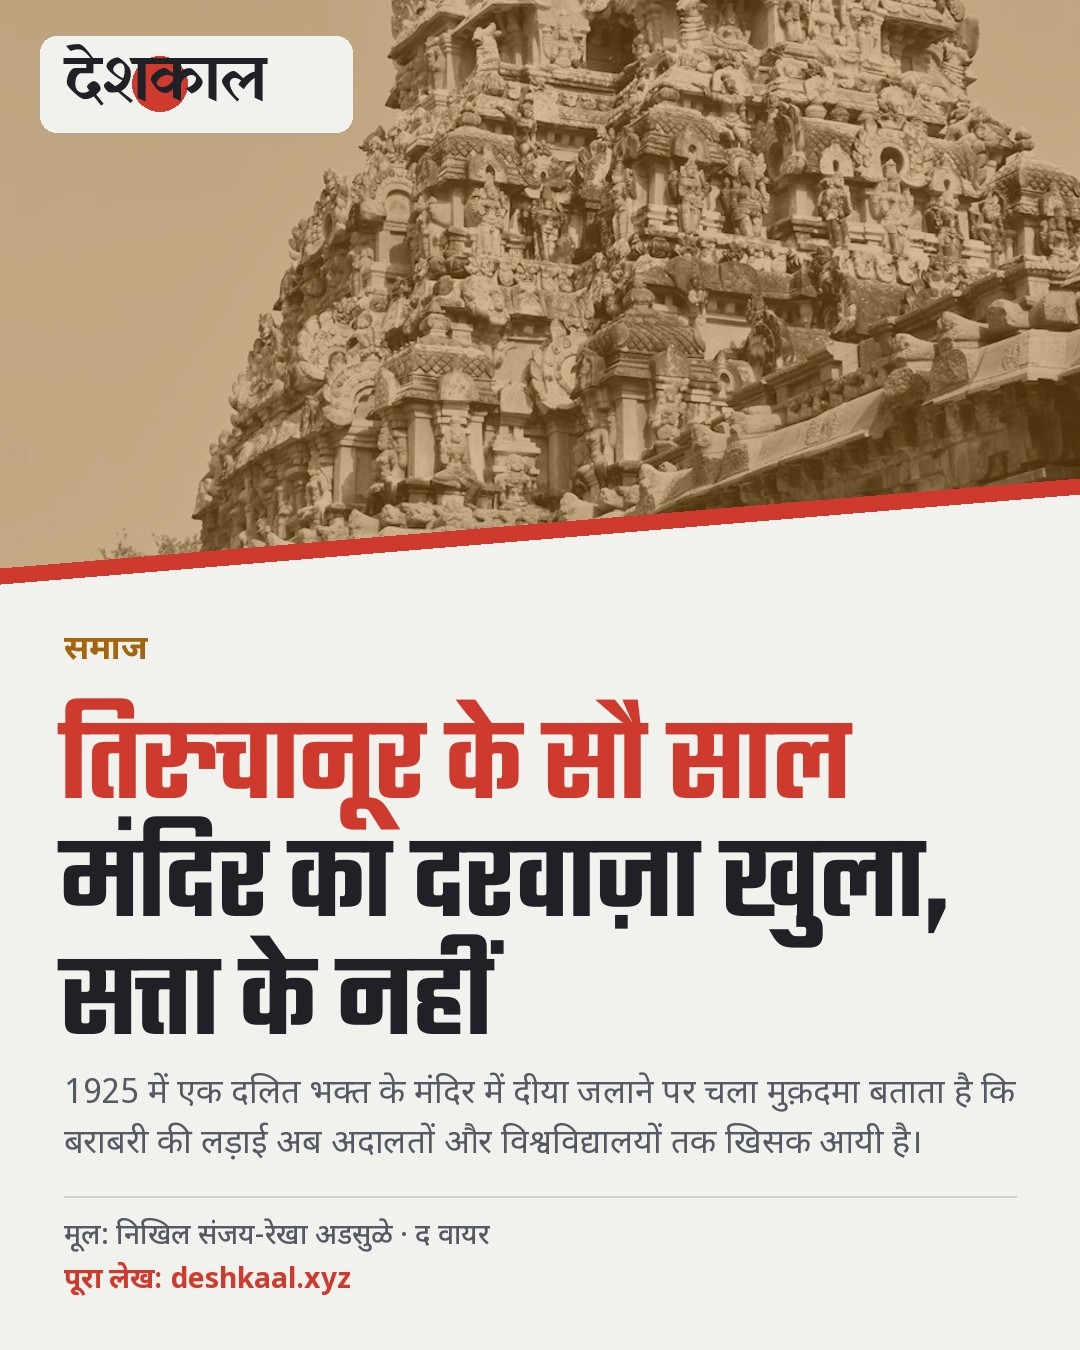
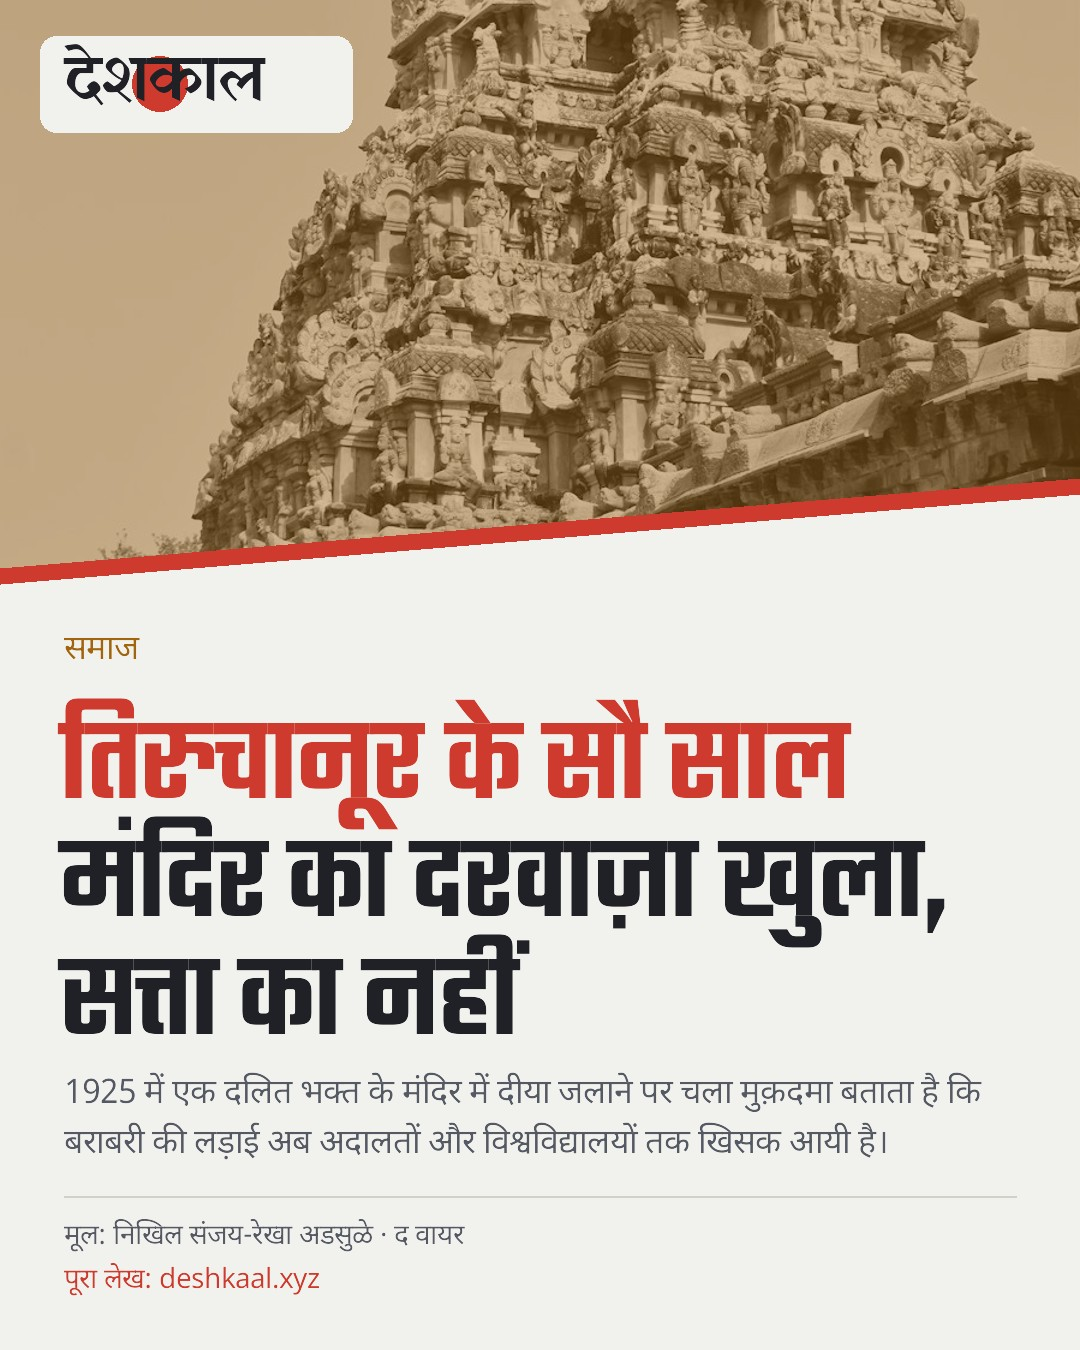
तिरुचानूर: शीर्षक में 'सत्ता का नहीं' (दरवाज़ा पुल्लिंग), कार्ड दोबारा, प्रूफ़रीड में i18n की जांच

diff --git a/scripts/ig.py b/scripts/ig.py
@@ -31,15 +31,32 @@ def ns(size, w=500):
     return og.font("NotoSansDevanagari.ttf", size, w)
 
 
+def put(d, pos, text, f, fill, anchor="la"):
+    """देवनागरी/उर्दू की शेपिंग: जहां Pillow में libraqm नहीं, वहां HarfBuzz (og.ST) से छापें."""
+    if og.USE_SHAPE:
+        x, y = pos
+        if "m" in anchor:
+            x -= og.text_width(d, text, f) / 2
+        elif "r" in anchor:
+            x -= og.text_width(d, text, f)
+        og.ST.draw(d._image, (x, y), text, f.path, f.size, fill)
+    else:
+        d.text(pos, text, font=f, fill=fill, anchor=anchor)
+
+
+def adv(d, text, f):
+    return og.text_width(d, text, f)
+
+
 def masthead(d, x, y, size, sun=True, col=INK):
     """छोटा मास्टहेड: लाल सूरज पर Yatra One में देशकाल."""
     f = og.font("YatraOne.ttf", size)
-    w = d.textlength("देशकाल", font=f)
+    w = adv(d, "देशकाल", f)
     if sun:
         r = size * 0.43
         cx, cy = x + w * 0.47, y + size * 0.78
         d.ellipse([cx - r, cy - r, cx + r, cy + r], fill=LAL)
-    d.text((x, y), "देशकाल", font=f, fill=col)
+    put(d, (x, y), "देशकाल", f, col)
     return w
 
 
@@ -58,8 +75,8 @@ def headline(d, h, x, y, width, max_h, sizes=(118, 108, 98, 90, 82, 74, 66)):
     for ln in lines:
         cx = x
         for w in ln.split():
-            d.text((cx, y), w, font=f, fill=LAL if n < red_n else INK)
-            cx += d.textlength(w + " ", font=f); n += 1
+            put(d, (cx, y), w, f, LAL if n < red_n else INK)
+            cx += adv(d, w + " ", f); n += 1
         y += lh
     return y
 
@@ -101,14 +118,14 @@ def story_card(a, num=None):
     d.rounded_rectangle([40, 36, 352, 132], 16, fill=PAPER)
     masthead(d, 64, 34, 64)
     y = top
-    d.text((64, y), a["cat"], font=ns(34, 700), fill=col)
+    put(d, (64, y), a["cat"], ns(34, 700), col)
     y = headline(d, a["h"], 60, y + 56, W - 120, 440)
     yy = y + 34
     for ln in dek:
-        d.text((64, yy), ln, font=f, fill=INK2); yy += 50
+        put(d, (64, yy), ln, f, INK2); yy += 50
     d.line([(64, 1196), (W - 64, 1196)], fill=(207, 210, 200), width=2)
-    d.text((64, 1218), f"मूल: {a['by']} · {a['pub']}", font=ns(28, 500), fill=INK2)
-    d.text((64, 1262), "पूरा लेख: deshkaal.xyz", font=ns(28, 700), fill=LAL)
+    put(d, (64, 1218), f"मूल: {a['by']} · {a['pub']}", ns(28, 500), INK2)
+    put(d, (64, 1262), "पूरा लेख: deshkaal.xyz", ns(28, 700), LAL)
     return img
 
 
@@ -119,23 +136,23 @@ def cover_card(day, items):
     m = Image.new("L", (W, H), 0); ImageDraw.Draw(m).polygon([(0, 0), (W, 0), (W, 120), (0, 190)], fill=255); img.paste(top, (0, 0), m)
     d.polygon([(0, 190), (W, 120), (W, 134), (0, 204)], fill=LAL)
     f = og.font("YatraOne.ttf", 190)
-    w = d.textlength("देशकाल", font=f)
+    w = adv(d, "देशकाल", f)
     masthead(d, (W - w) / 2, 250, 190)
     tag = og.font("NotoSansDevanagari.ttf", 36, 400)
-    d.text((W / 2, 520), "ज़रूरी ख़बरों तक जाती एक पगडंडी", font=tag, fill=INK2, anchor="ma")
-    d.text((W / 2, 590), daylabel(day) + " · आज की टिप्पणियां", font=ns(32, 700), fill=LAL, anchor="ma")
+    put(d, (W / 2, 520), "ज़रूरी ख़बरों तक जाती एक पगडंडी", tag, INK2, "ma")
+    put(d, (W / 2, 590), daylabel(day) + " · आज की टिप्पणियां", ns(32, 700), LAL, "ma")
     y = 680
     news = ([a for a in items if a.get("sec") == "morcha"] + [a for a in items if a.get("sec") == "amukh"] + [a for a in items if a.get("sec") == "vichar"] + [a for a in items if a.get("sec") in ("khabar", "pari")] or [a for a in items if a["cat"] != "साहित्य"])[:5]
     for i, a in enumerate(news, 1):
-        d.text((92, y - 4), str(i), font=og.font("YatraOne.ttf", 60), fill=LAL, anchor="ra")
+        put(d, (92, y - 4), str(i), og.font("YatraOne.ttf", 60), LAL, "ra")
         f = ns(38, 600); allw = og.wrap(d, a["h"].replace(":", ","), f, W - 220); lines = allw[:2]
         if len(allw) > 2: lines[1] = lines[1].rstrip("।,") + "…"
         yy = y
         for ln in lines:
-            d.text((130, yy), ln, font=f, fill=INK); yy += 52
+            put(d, (130, yy), ln, f, INK); yy += 52
         y = yy + 26
     d.line([(64, 1220), (W - 64, 1220)], fill=(207, 210, 200), width=2)
-    d.text((64, 1244), f"आज कुल {len(items)} टिप्पणियां · आगे की स्लाइड में पढ़िए", font=ns(29, 600), fill=INK2)
+    put(d, (64, 1244), f"आज कुल {len(items)} टिप्पणियां · आगे की स्लाइड में पढ़िए", ns(29, 600), INK2)
     return img
 
 
@@ -143,16 +160,16 @@ def end_card(day):
     img = Image.new("RGB", (W, H), og.CAT["दुनिया"]); d = ImageDraw.Draw(img)
     og.halftone(img, (0, 0, W, H), (64, 80, 160), step=20)
     d.rounded_rectangle([70, 150, W - 70, H - 150], 28, fill=PAPER)
-    f = og.font("YatraOne.ttf", 140); w = d.textlength("देशकाल", font=f)
+    f = og.font("YatraOne.ttf", 140); w = adv(d, "देशकाल", f)
     masthead(d, (W - w) / 2, 210, 140)
-    d.text((W / 2, 430), "हर सुबह 7 बजे, नयी टिप्पणियां", font=ns(40, 700), fill=INK, anchor="ma")
+    put(d, (W / 2, 430), "हर सुबह 7 बजे, नयी टिप्पणियां", ns(40, 700), INK, "ma")
     rows = [("वेबसाइट", "deshkaal.xyz"), ("WhatsApp", "चैनल: देशकाल"), ("Telegram", "t.me/deshkaal"), ("ईमेल", "deshkaal.xyz पर जुड़ें")]
     y = 560
     for k, v in rows:
-        d.text((150, y), k, font=ns(34, 700), fill=LAL)
-        d.text((430, y), v, font=ns(34, 500), fill=INK); y += 90
-    d.text((W / 2, 1000), "पूरे लेख का लिंक बायो में", font=ns(36, 700), fill=INK2, anchor="ma")
-    d.text((W / 2, 1060), "पढ़ें, सहेजें, आगे भेजें", font=ns(32, 400), fill=INK2, anchor="ma")
+        put(d, (150, y), k, ns(34, 700), LAL)
+        put(d, (430, y), v, ns(34, 500), INK); y += 90
+    put(d, (W / 2, 1000), "पूरे लेख का लिंक बायो में", ns(36, 700), INK2, "ma")
+    put(d, (W / 2, 1060), "पढ़ें, सहेजें, आगे भेजें", ns(32, 400), INK2, "ma")
     return img
 
 

diff --git a/scripts/proofread.py b/scripts/proofread.py
@@ -170,6 +170,32 @@ def check_days(rep, f, d):
             rep.add("warn", f, i, "सार 3 अनुच्छेद से छोटा")
 
 
+def check_i18n(rep, f, items):
+    """en/ur अनुवाद की सूची: sec/url यहां नहीं होते, इसलिए अंक वाले नियम नहीं.
+    सिर्फ़ ख़ाली खाना, बेजोड़ कोष्ठक/उद्धरण, दोहरा स्पेस और वाक्य का आख़िर देखें."""
+    for it in items:
+        i = it.get("id", "?")
+        for k in ("h", "dek"):
+            if not (it.get(k) or "").strip():
+                rep.add("error", f, i, f"खाना ख़ाली: {k}")
+        body = it.get("body") or []
+        if not body:
+            rep.add("error", f, i, "खाना ख़ाली: body")
+        for n, p in enumerate(body, 1):
+            if not is_prose_para(p):
+                continue
+            if ZERO_WIDTH.search(p):
+                rep.add("error", f, f"body[{n}]", "छिपा हुआ शून्य-चौड़ाई अक्षर है")
+            if TAB.search(p):
+                rep.add("error", f, f"body[{n}]", "टैब है, स्पेस कीजिए")
+            if DOUBLE_SPACE.search(p):
+                rep.add("error", f, f"body[{n}]", "दो या ज़्यादा स्पेस लगातार")
+            if p.count("‘") != p.count("’") or p.count("“") != p.count("”"):
+                rep.add("error", f, f"body[{n}]", "उद्धरण-चिह्न बेमेल")
+            if p.count("(") != p.count(")"):
+                rep.add("error", f, f"body[{n}]", "कोष्ठक बेमेल")
+
+
 def scan(rep, path):
     try:
         d = json.load(open(path, encoding="utf-8"))
@@ -194,7 +220,10 @@ def scan(rep, path):
         if is_hs:
             check_hamsafar(rep, path, d)
     elif isinstance(d, list):
-        check_days(rep, path, d)
+        if "/i18n/" in path:
+            check_i18n(rep, path, d)
+        else:
+            check_days(rep, path, d)
 
 
 def main():
